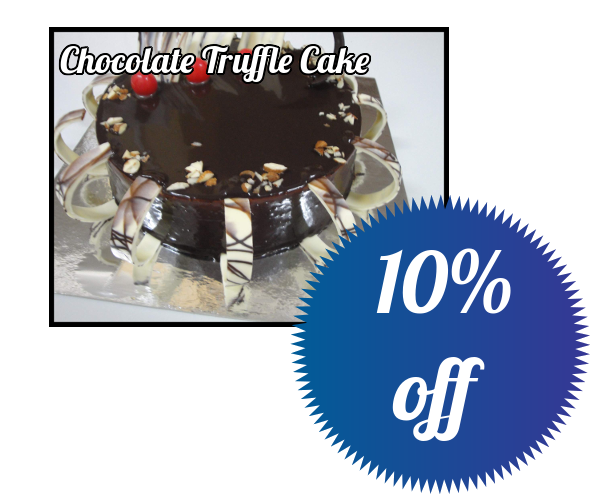
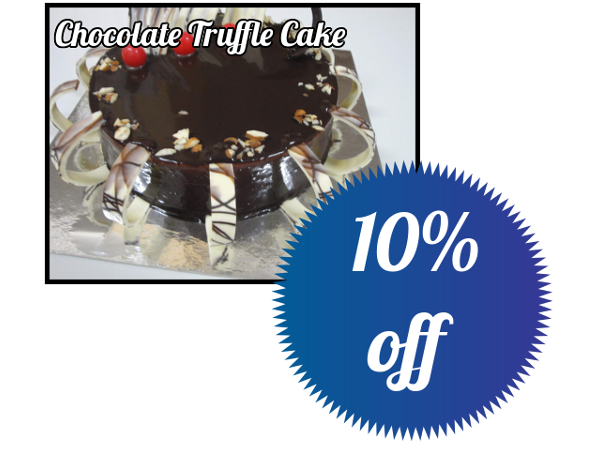
Small changes to carousel placeholders

diff --git a/index.html b/index.html
@@ -8,27 +8,33 @@ layout: landing
                                 <div class="carousel-inner">
                                     <div class="item active">
 									<img src="images/Slides/Scaffold.png" alt="First slide" width="100%">
-									<div class="carousel-caption">
+									<div class="carousel-caption" id="cakedaylogo">
 										<h2><img src="./images/CakeDayBanner.png" /></h2>
 										<p>{{ site.description | markdownify }}</p>
 									</div>
                                     </div>
                                     <div class="item">
 									<img src="images/Slides/Scaffold.png" alt="First slide" width="100%">
-                                    <div class="carousel-caption">
+                                    <div class="carousel-caption" id="cakedayslides">
 										<h3><img src="./images/Slides/BlackForest.png" /></h3>
 									</div>
                                     </div>
                                     <div class="item">
 									<img src="images/Slides/Scaffold.png" alt="First slide" width="100%">
-                                    <div class="carousel-caption">
+                                    <div class="carousel-caption" id="cakedayslides">
 										<h3><img src="./images/Slides/ChocolateTruffleCake.png" /></h3>
 									</div>
                                     </div>
                                     <div class="item">
 									<img src="images/Slides/Scaffold.png" alt="First slide" width="100%">
-                                    <div class="carousel-caption">
-										<h3><img src="./images/Slides/AlsoAvailable.png" /></h3>
+                                    <div class="carousel-caption" id="cakedayslides">
+										<h3><img src="./images/Slides/FondantCakes.png" /></h3>
+									</div>
+                                    </div>
+                                    <div class="item">
+									<img src="images/Slides/Scaffold.png" alt="First slide" width="100%">
+                                    <div class="carousel-caption" id="cakedayslides">
+										<h3><img src="./images/Slides/PrintedCakes.png" /></h3>
 									</div>
                                     </div>
                                 </div>

diff --git a/css/main.scss b/css/main.scss
@@ -1651,7 +1651,7 @@ $baseurl: '{{ site.baseurl }}/images';
 			opacity: 0;
 		}
 
-		.carousel-caption {
+		#cakedaylogo.carousel-caption {
 			top: 50%;
 			margin-top: -150px;
 			padding: 0%;
@@ -1659,6 +1659,12 @@ $baseurl: '{{ site.baseurl }}/images';
 			p {
 				font-size: 1em;
 			}
+		}
+
+		#cakedayslides.carousel-caption {
+			top: 50%;
+			margin-top: -150px;
+			padding: 0%;
 		}
 
 		@include breakpoint(small) {
@@ -1678,7 +1684,7 @@ $baseurl: '{{ site.baseurl }}/images';
 				display: none;
 			}
 
-			.carousel-caption {
+			#cakedaylogo.carousel-caption {
 				top: 10%;
 				margin-top: 0;
 				padding: 20% 0%;
@@ -1687,6 +1693,12 @@ $baseurl: '{{ site.baseurl }}/images';
 					letter-spacing: 0.115em;
 					font-size: 0.8em;
 				}
+			}
+
+			#cakedayslides.carousel-caption {
+				top: 10%;
+				margin-top: 0;
+				padding: 20% 0%;
 			}
 		}
 	}
